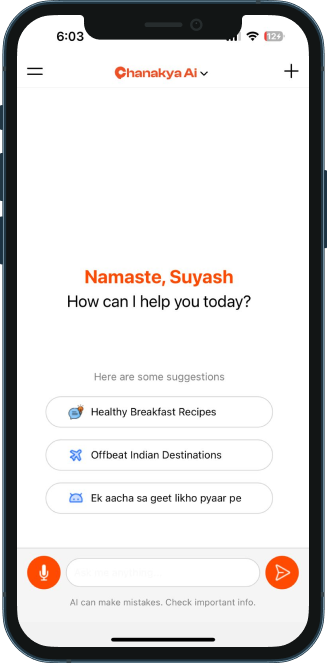
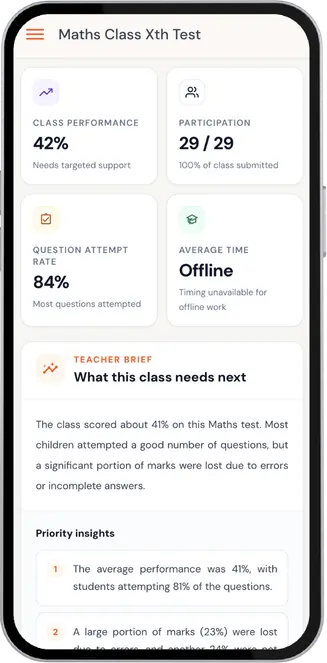
Update portfolio work section: remove AyurAid, add MyVitals, reorder
Project order is now Chanakya AI, Haulr, MyVitals, Venyou, Playnoot,
Playwise.

- AyurAid removed from the work section (and its screenshot CSS rule).
- MyVitals added — screenshot and app icon brought over from the Cosmic
  Shaft site, resized to this repo's conventions (327x663 screenshot,
  240x240 icon). Play Store badge plus a link to myvitals.co.in.
- Playwise restored to the section, using its own original copy and real
  store links recovered from git history rather than rewritten; its
  .playwiseScreenshot rule is uncommented again.
- Chanakya AI corrected: it is an exam automation platform for schools, not
  a consumer AI assistant, so the screenshot, description and CTA are all
  updated. It is web-based, so the two store badges are replaced with a
  single link to aichanakya.in.

Responsive fix for the app tray
------------------------------
The tray is a flex row, and at five apps there was enough slack that nobody
noticed the icons were shrinkable. At six they were being squeezed from 42px
down to ~34px, and it would have got worse on a narrower phone. Added
flex-shrink: 0 so icons hold their size, and on mobile the tray now sizes to
its content (width: auto, max-width: 94%) instead of a fixed 75% that forced
the squeeze. Icons are 40px with tighter margins there, which fits six
comfortably with no horizontal overflow.

Note: the tray sitting below the device frame on mobile is pre-existing
layout, unchanged here — verified against the previous commit.

diff --git a/index.html b/index.html
@@ -157,6 +157,126 @@
 
         <div id="macbook" class="macbook ">
             <div class="pc taskbar">
+                <img class="taskbar-app chanakya" onmouseover="changeApp('chanakyaScreenshot')"
+                    onmouseout="changeToDummy('chanakyaScreenshot')" src="src/assets/images/icons/apps/chanakya.webp"
+                    alt="Chanakya app icon">
+                <div class="app-content chanakya">
+                    <img class="app-img" src="src/assets/images/screenshots/chanakya.png" alt="chanakya screenshot">
+                    <div class="app-box">
+                        <div class="app-header">
+                            <h2 class="app-title">Chanakya Ai</h2>
+                            <span class="app-location"><svg xmlns="http://www.w3.org/2000/svg" width="24" height="24"
+                                    viewBox="0 0 24 24" id="location">
+                                    <g fill="none" fill-rule="evenodd" stroke="white" stroke-linecap="round"
+                                        stroke-linejoin="round" stroke-width="1.5" transform="translate(3.5 2)">
+                                        <path
+                                            d="M0.739130438,8.39130439 C0.753537867,4.15071799 4.2028919,0.72472301 8.4434783,0.739085164 C12.6840647,0.753537867 16.1100597,4.2028919 16.0956975,8.4434783 L16.0956975,8.53043483 C16.0434783,11.2869566 14.5043479,13.8347827 12.6173914,15.826087 C11.5382412,16.9467164 10.3331375,17.9388114 9.026087,18.7826088 C8.67659293,19.0849173 8.15818976,19.0849173 7.80869569,18.7826088 C5.86019813,17.5143538 4.15006533,15.9131279 2.75652175,14.052174 C1.51448066,12.4293903 0.809295599,10.4597355 0.739130438,8.41739135 L0.739130438,8.39130439 Z">
+                                        </path>
+                                        <circle cx="8.417" cy="8.539" r="2.461"></circle>
+                                    </g>
+                                </svg> India</span>
+                        </div>
+                        <p class="description">
+                            Chanakya AI is an exam automation platform for schools and institutes. Teachers create
+                            papers in the platform, students write them by hand exactly as they always have, and AI
+                            reads and marks the scanned answer sheets - then reports back on where the class actually
+                            struggled. Built to take marking off a teacher's desk without changing anything about how
+                            the exam itself is run.
+                        </p>
+
+
+                        <div class="app-link-holder">
+                            <a class="app-link web-link" href="https://aichanakya.in/" target="_blank"
+                                rel="noopener">Visit Website</a>
+                        </div>
+                    </div>
+                </div>
+
+
+                </img>
+
+                <img class="taskbar-app haulr" onmouseover="changeApp('haulrScreenshot')"
+                    onmouseout="changeToDummy('haulrScreenshot')" src="src/assets/images/icons/apps/haulr.png"
+                    alt="arrow">
+                <div class="app-content haulr">
+                    <img class="app-img" src="src/assets/images/screenshots/haulr.png" alt="venyou">
+                    <div class="app-box">
+                        <div class="app-header">
+                            <h2 class="app-title">Haulr </h2>
+                            <span class="app-location"><svg xmlns="http://www.w3.org/2000/svg" width="24" height="24"
+                                    viewBox="0 0 24 24" id="location">
+                                    <g fill="none" fill-rule="evenodd" stroke="white" stroke-linecap="round"
+                                        stroke-linejoin="round" stroke-width="1.5" transform="translate(3.5 2)">
+                                        <path
+                                            d="M0.739130438,8.39130439 C0.753537867,4.15071799 4.2028919,0.72472301 8.4434783,0.739085164 C12.6840647,0.753537867 16.1100597,4.2028919 16.0956975,8.4434783 L16.0956975,8.53043483 C16.0434783,11.2869566 14.5043479,13.8347827 12.6173914,15.826087 C11.5382412,16.9467164 10.3331375,17.9388114 9.026087,18.7826088 C8.67659293,19.0849173 8.15818976,19.0849173 7.80869569,18.7826088 C5.86019813,17.5143538 4.15006533,15.9131279 2.75652175,14.052174 C1.51448066,12.4293903 0.809295599,10.4597355 0.739130438,8.41739135 L0.739130438,8.39130439 Z">
+                                        </path>
+                                        <circle cx="8.417" cy="8.539" r="2.461"></circle>
+                                    </g>
+                                </svg> United States ( US )</span>
+                        </div>
+                        <p class="description">
+                            Haulr is a app which connects the costruction companies with the truck drivers. It allows
+                            the users to create projects/jobs and assign them to the drivers. The drivers can accept the
+                            jobs and complete them. The app also allows the users to track the drivers in real time.
+                        </p>
+
+
+                        <div class="app-link-holder">
+                            <a class="app-link"
+                                href="https://play.google.com/store/apps/details?id=com.sarithm.haulrcorp"
+                                target="_blank">
+                                <img class="app-link" src="src/assets/images/playstore.png"
+                                    alt="google play store button for Haulr">
+                            </a>
+                            <a class="app-link" href="https://apps.apple.com/us/app/haulr-corp/id6477397600"
+                                target="_blank">
+                                <img class="app-link" src="src/assets/images/appstore.png"
+                                    alt="App store button for Halr">
+                            </a>
+                        </div>
+                    </div>
+                </div>
+                </img>
+
+                <img class="taskbar-app myvitals" onmouseover="changeApp('myvitalsScreenshot')"
+                    onmouseout="changeToDummy('myvitalsScreenshot')" src="src/assets/images/icons/apps/myvitals.png"
+                    alt="MyVitals app icon">
+                <div class="app-content myvitals">
+                    <img class="app-img" src="src/assets/images/screenshots/myvitals.png" alt="MyVitals screenshot">
+                    <div class="app-box">
+                        <div class="app-header">
+                            <h2 class="app-title">MyVitals</h2>
+                            <span class="app-location"><svg xmlns="http://www.w3.org/2000/svg" width="24" height="24"
+                                    viewBox="0 0 24 24" id="location">
+                                    <g fill="none" fill-rule="evenodd" stroke="white" stroke-linecap="round"
+                                        stroke-linejoin="round" stroke-width="1.5" transform="translate(3.5 2)">
+                                        <path
+                                            d="M0.739130438,8.39130439 C0.753537867,4.15071799 4.2028919,0.72472301 8.4434783,0.739085164 C12.6840647,0.753537867 16.1100597,4.2028919 16.0956975,8.4434783 L16.0956975,8.53043483 C16.0434783,11.2869566 14.5043479,13.8347827 12.6173914,15.826087 C11.5382412,16.9467164 10.3331375,17.9388114 9.026087,18.7826088 C8.67659293,19.0849173 8.15818976,19.0849173 7.80869569,18.7826088 C5.86019813,17.5143538 4.15006533,15.9131279 2.75652175,14.052174 C1.51448066,12.4293903 0.809295599,10.4597355 0.739130438,8.41739135 L0.739130438,8.39130439 Z">
+                                        </path>
+                                        <circle cx="8.417" cy="8.539" r="2.461"></circle>
+                                    </g></svg> India</span>
+                        </div>
+
+                        <p class="description">
+                            MyVitals turns years of scattered lab reports into one continuous health history. Upload a
+                            report from any lab in any format - a PDF or a phone photo - and AI reads every measurement,
+                            normalises the units, and matches it against your past results so a trend finally becomes
+                            visible. Charts with reference ranges, an assistant grounded in your own data, a
+                            doctor-ready PDF export, and profiles for the whole family.
+                        </p>
+                        <div class="app-link-holder">
+                            <a class="app-link" href="https://play.google.com/store/apps/details?id=com.myvitals.app"
+                                target="_blank">
+                                <img class="app-link" src="src/assets/images/playstore.png"
+                                    alt="google play store button for MyVitals">
+                            </a>
+                            <a class="app-link web-link" href="https://myvitals.co.in" target="_blank"
+                                rel="noopener">Visit Website</a>
+                        </div>
+                    </div>
+                </div>
+                </img>
+
                 <img class="taskbar-app venyou" onmouseover="changeApp('venyouScreenshot')"
                     onmouseout="changeToDummy('venyouScreenshot')" src="src/assets/images/icons/apps/venyou.jpeg"
                     alt="venyou app icon">
@@ -198,6 +318,7 @@
                     </div>
                 </div>
                 </img>
+
                 <img class="taskbar-app playnoot" onmouseover="changeApp('playnootScreenshot')"
                     onmouseout="changeToDummy('playnootScreenshot')" src="src/assets/images/icons/apps/playnoot.png"
                     alt="playnoot app icon">
@@ -243,14 +364,14 @@
                 </div>
                 </img>
 
-                <img class="taskbar-app chanakya" onmouseover="changeApp('chanakyaScreenshot')"
-                    onmouseout="changeToDummy('chanakyaScreenshot')" src="src/assets/images/icons/apps/chanakya.webp"
-                    alt="Chanakya app icon">
-                <div class="app-content chanakya">
-                    <img class="app-img" src="src/assets/images/screenshots/chanakya.png" alt="chanakya screenshot">
+                <img class="taskbar-app playwise" onmouseover="changeApp('playwiseScreenshot')"
+                    onmouseout="changeToDummy('playwiseScreenshot')" src="src/assets/images/icons/apps/playwise.png"
+                    alt="playwise app icon">
+                <div class="app-content playwise">
+                    <img class="app-img" src="src/assets/images/screenshots/playwise.png" alt="playwise screenshot">
                     <div class="app-box">
                         <div class="app-header">
-                            <h2 class="app-title">Chanakya Ai</h2>
+                            <h2 class="app-title">Playwise </h2>
                             <span class="app-location"><svg xmlns="http://www.w3.org/2000/svg" width="24" height="24"
                                     viewBox="0 0 24 24" id="location">
                                     <g fill="none" fill-rule="evenodd" stroke="white" stroke-linecap="round"
@@ -263,117 +384,27 @@
                                 </svg> India</span>
                         </div>
                         <p class="description">
-                            Discover Chanakya: Your Ultimate AI-Powered Assistant Tailored for India!
-                            <br>
-                            Unlock the power of Chanakya, the ultimate AI assistant designed exclusively for the Indian
-                            audience! With its state-of-the-art natural language processing capabilities, Chanakya
-                            understands and responds to your queries in multiple Indian languages, including Hindi,
-                            Tamil, Telugu, Bengali, Marathi, Kannada, Gujarati, Malayalam, and Punjabi.
+                            Playwise connecting the athletes, beginners,
+                            and underdogs to the delightful future of sports entertainment in a unique and enriching way
+                            that brings fans and gamers together.
+
+                            We are building this platform with a vision to meet gamers' expectations from a platform
+                            dedicatedly built for the gaming community. Playwise is amongst the few eSports applications
+                            built on the Hybrid Model of Blockchain keeping in view all future aspects of Gaming.
                         </p>
 
 
                         <div class="app-link-holder">
-                            <a class="app-link"
-                                href="https://play.google.com/store/apps/details?id=tech.neurobridge.chanakya&hl=en_IN"
+                            <a class="app-link" href="https://play.google.com/store/apps/details?id=gg.playwise.mobile"
                                 target="_blank">
                                 <img class="app-link" src="src/assets/images/playstore.png"
-                                    alt="google play store button for Chanakya">
+                                    alt="google play store button for Playwise">
                             </a>
-                            <a class="app-link" href="https://apps.apple.com/us/app/chanakya-ai/id6504797681"
+                            <a class="app-link" href="https://apps.apple.com/us/app/playwise/id6443646627"
                                 target="_blank">
                                 <img class="app-link" src="src/assets/images/appstore.png"
-                                    alt="App store button for Chanakya">
+                                    alt="App store button for Playwise">
                             </a>
-                        </div>
-                    </div>
-                </div>
-
-
-                </img>
-                <img class="taskbar-app haulr" onmouseover="changeApp('haulrScreenshot')"
-                    onmouseout="changeToDummy('haulrScreenshot')" src="src/assets/images/icons/apps/haulr.png"
-                    alt="arrow">
-                <div class="app-content haulr">
-                    <img class="app-img" src="src/assets/images/screenshots/haulr.png" alt="venyou">
-                    <div class="app-box">
-                        <div class="app-header">
-                            <h2 class="app-title">Haulr </h2>
-                            <span class="app-location"><svg xmlns="http://www.w3.org/2000/svg" width="24" height="24"
-                                    viewBox="0 0 24 24" id="location">
-                                    <g fill="none" fill-rule="evenodd" stroke="white" stroke-linecap="round"
-                                        stroke-linejoin="round" stroke-width="1.5" transform="translate(3.5 2)">
-                                        <path
-                                            d="M0.739130438,8.39130439 C0.753537867,4.15071799 4.2028919,0.72472301 8.4434783,0.739085164 C12.6840647,0.753537867 16.1100597,4.2028919 16.0956975,8.4434783 L16.0956975,8.53043483 C16.0434783,11.2869566 14.5043479,13.8347827 12.6173914,15.826087 C11.5382412,16.9467164 10.3331375,17.9388114 9.026087,18.7826088 C8.67659293,19.0849173 8.15818976,19.0849173 7.80869569,18.7826088 C5.86019813,17.5143538 4.15006533,15.9131279 2.75652175,14.052174 C1.51448066,12.4293903 0.809295599,10.4597355 0.739130438,8.41739135 L0.739130438,8.39130439 Z">
-                                        </path>
-                                        <circle cx="8.417" cy="8.539" r="2.461"></circle>
-                                    </g>
-                                </svg> United States ( US )</span>
-                        </div>
-                        <p class="description">
-                            Haulr is a app which connects the costruction companies with the truck drivers. It allows
-                            the users to create projects/jobs and assign them to the drivers. The drivers can accept the
-                            jobs and complete them. The app also allows the users to track the drivers in real time.
-                        </p>
-
-
-                        <div class="app-link-holder">
-                            <a class="app-link"
-                                href="https://play.google.com/store/apps/details?id=com.sarithm.haulrcorp"
-                                target="_blank">
-                                <img class="app-link" src="src/assets/images/playstore.png"
-                                    alt="google play store button for Haulr">
-                            </a>
-                            <a class="app-link" href="https://apps.apple.com/us/app/haulr-corp/id6477397600"
-                                target="_blank">
-                                <img class="app-link" src="src/assets/images/appstore.png"
-                                    alt="App store button for Halr">
-                            </a>
-                        </div>
-                    </div>
-                </div>
-                </img>
-
-                <!-- SINGHAL JAIN CONTENT -->
-                <img class="taskbar-app ayuraid" onmouseover="changeApp('ayuraidScreenshot')"
-                    onmouseout="changeToDummy('ayuraidScreenshot')" src="src/assets/images/icons/apps/ayuraid.webp"
-                    alt="arrow">
-                <div class="app-content ayuraid">
-                    <img class="app-img" src="src/assets/images/screenshots/ayuraid.png" alt="AyurAid App screenshot">
-                    <div class="app-box">
-                        <div class="app-header">
-                            <h2 class="app-title">AyurAid Ai</h2>
-                            <span class="app-location"><svg xmlns="http://www.w3.org/2000/svg" width="24" height="24"
-                                    viewBox="0 0 24 24" id="location">
-                                    <g fill="none" fill-rule="evenodd" stroke="white" stroke-linecap="round"
-                                        stroke-linejoin="round" stroke-width="1.5" transform="translate(3.5 2)">
-                                        <path
-                                            d="M0.739130438,8.39130439 C0.753537867,4.15071799 4.2028919,0.72472301 8.4434783,0.739085164 C12.6840647,0.753537867 16.1100597,4.2028919 16.0956975,8.4434783 L16.0956975,8.53043483 C16.0434783,11.2869566 14.5043479,13.8347827 12.6173914,15.826087 C11.5382412,16.9467164 10.3331375,17.9388114 9.026087,18.7826088 C8.67659293,19.0849173 8.15818976,19.0849173 7.80869569,18.7826088 C5.86019813,17.5143538 4.15006533,15.9131279 2.75652175,14.052174 C1.51448066,12.4293903 0.809295599,10.4597355 0.739130438,8.41739135 L0.739130438,8.39130439 Z">
-                                        </path>
-                                        <circle cx="8.417" cy="8.539" r="2.461"></circle>
-                                    </g>
-                                </svg> India</span>
-                        </div>
-                        <p class="description">
-                            AyurAid revolutionizes the world of Ayurveda by introducing a cutting-edge mobile app that
-                            harnesses the power of artificial intelligence to deliver a personalized and user-friendly
-                            Ayurvedic experience. Designed as a comprehensive platform, AyurAid goes beyond traditional
-                            remedies, offering an innovative approach to Ayurvedic wellness.
-
-                        </p>
-
-
-                        <div class="app-link-holder">
-                            <a class="app-link"
-                                href="https://play.google.com/store/apps/details?id=com.ayuraid.mobile&hl=en_IN"
-                                target="_blank">
-                                <img class="app-link" src="src/assets/images/playstore.png"
-                                    alt="google play store button got Singhal Jain App">
-                            </a>
-                            <!-- <a class="app-link" href="https://apps.apple.com/in/app/singhal-jain-co/id1623310438"
-                                target="_blank">
-                                <img class="app-link" src="src/assets/images/appstore.png"
-                                    alt="App store button got Singhal Jain App">
-                            </a> -->
                         </div>
                     </div>
                 </div>

diff --git a/style.css b/style.css
@@ -1103,6 +1103,8 @@ footer>div {
 .taskbar-app {
     width: 42px;
     height: 42px;
+    flex-shrink: 0;
+    object-fit: cover;
     border-radius: 10px;
     margin-right: 5px;
     margin-left: 5px;
@@ -1206,6 +1208,29 @@ footer>div {
 
 .app-link:hover {
     cursor: pointer;
+}
+
+/* MyVitals is a web product as well as an app, so its row carries a link to
+   the site alongside the store badge. Sized to the 32px badge height so the
+   two sit on one line. */
+.web-link {
+    display: inline-flex;
+    align-items: center;
+    height: 32px;
+    padding: 0 14px;
+    border: 1px solid var(--primary-color);
+    border-radius: 6px;
+    color: var(--primary-color);
+    font-family: 'Unbounded-Light', Arial, Helvetica, sans-serif;
+    font-size: 12px;
+    text-decoration: none;
+    vertical-align: top;
+    transition: 0.3s ease-in-out;
+}
+
+.web-link:hover {
+    background: var(--primary-color);
+    color: var(--background-color);
 }
 
 
@@ -1502,7 +1527,6 @@ footer>div {
         transform: translateY(10px);
         transition: 0.3s ease-in-out;
     }
-/* 
     .playwiseScreenshot {
         background: url('src/assets/images/screenshots/playwise.png');
         background-size: contain;
@@ -1510,7 +1534,7 @@ footer>div {
         background-position: center;
         transform: translateY(10px);
         transition: 0.3s ease-in-out;
-    } */
+    }
 
     .chanakyaScreenshot {
         background: url('src/assets/images/screenshots/chanakya.png');
@@ -1540,8 +1564,8 @@ footer>div {
         transition: 0.3s ease-in-out;
     } */
 
-    .ayuraidScreenshot {
-        background: url('src/assets/images/screenshots/ayuraid.png');
+    .myvitalsScreenshot {
+        background: url('src/assets/images/screenshots/myvitals.png');
         background-size: contain;
         background-repeat: no-repeat;
         background-position: center;
@@ -1551,10 +1575,23 @@ footer>div {
 
 
     .pc.taskbar {
-        width: 75%;
-        bottom: -18%;
+        /* Was a fixed 75%, which forced six icons to shrink to fit. Sizing to
+           content instead keeps every icon at its full size, and max-width
+           still stops the tray escaping the screen on a narrow phone. */
+        width: auto;
+        max-width: 94%;
+        bottom: -15%;
+        padding-left: 7px;
+        padding-right: 7px;
         background: linear-gradient(125deg, rgba(138, 138, 138, 0.448) 0%, rgba(140, 140, 140, 0.519) 100%);
 
+    }
+
+    .taskbar-app {
+        width: 40px;
+        height: 40px;
+        margin-left: 4px;
+        margin-right: 4px;
     }
 
 
